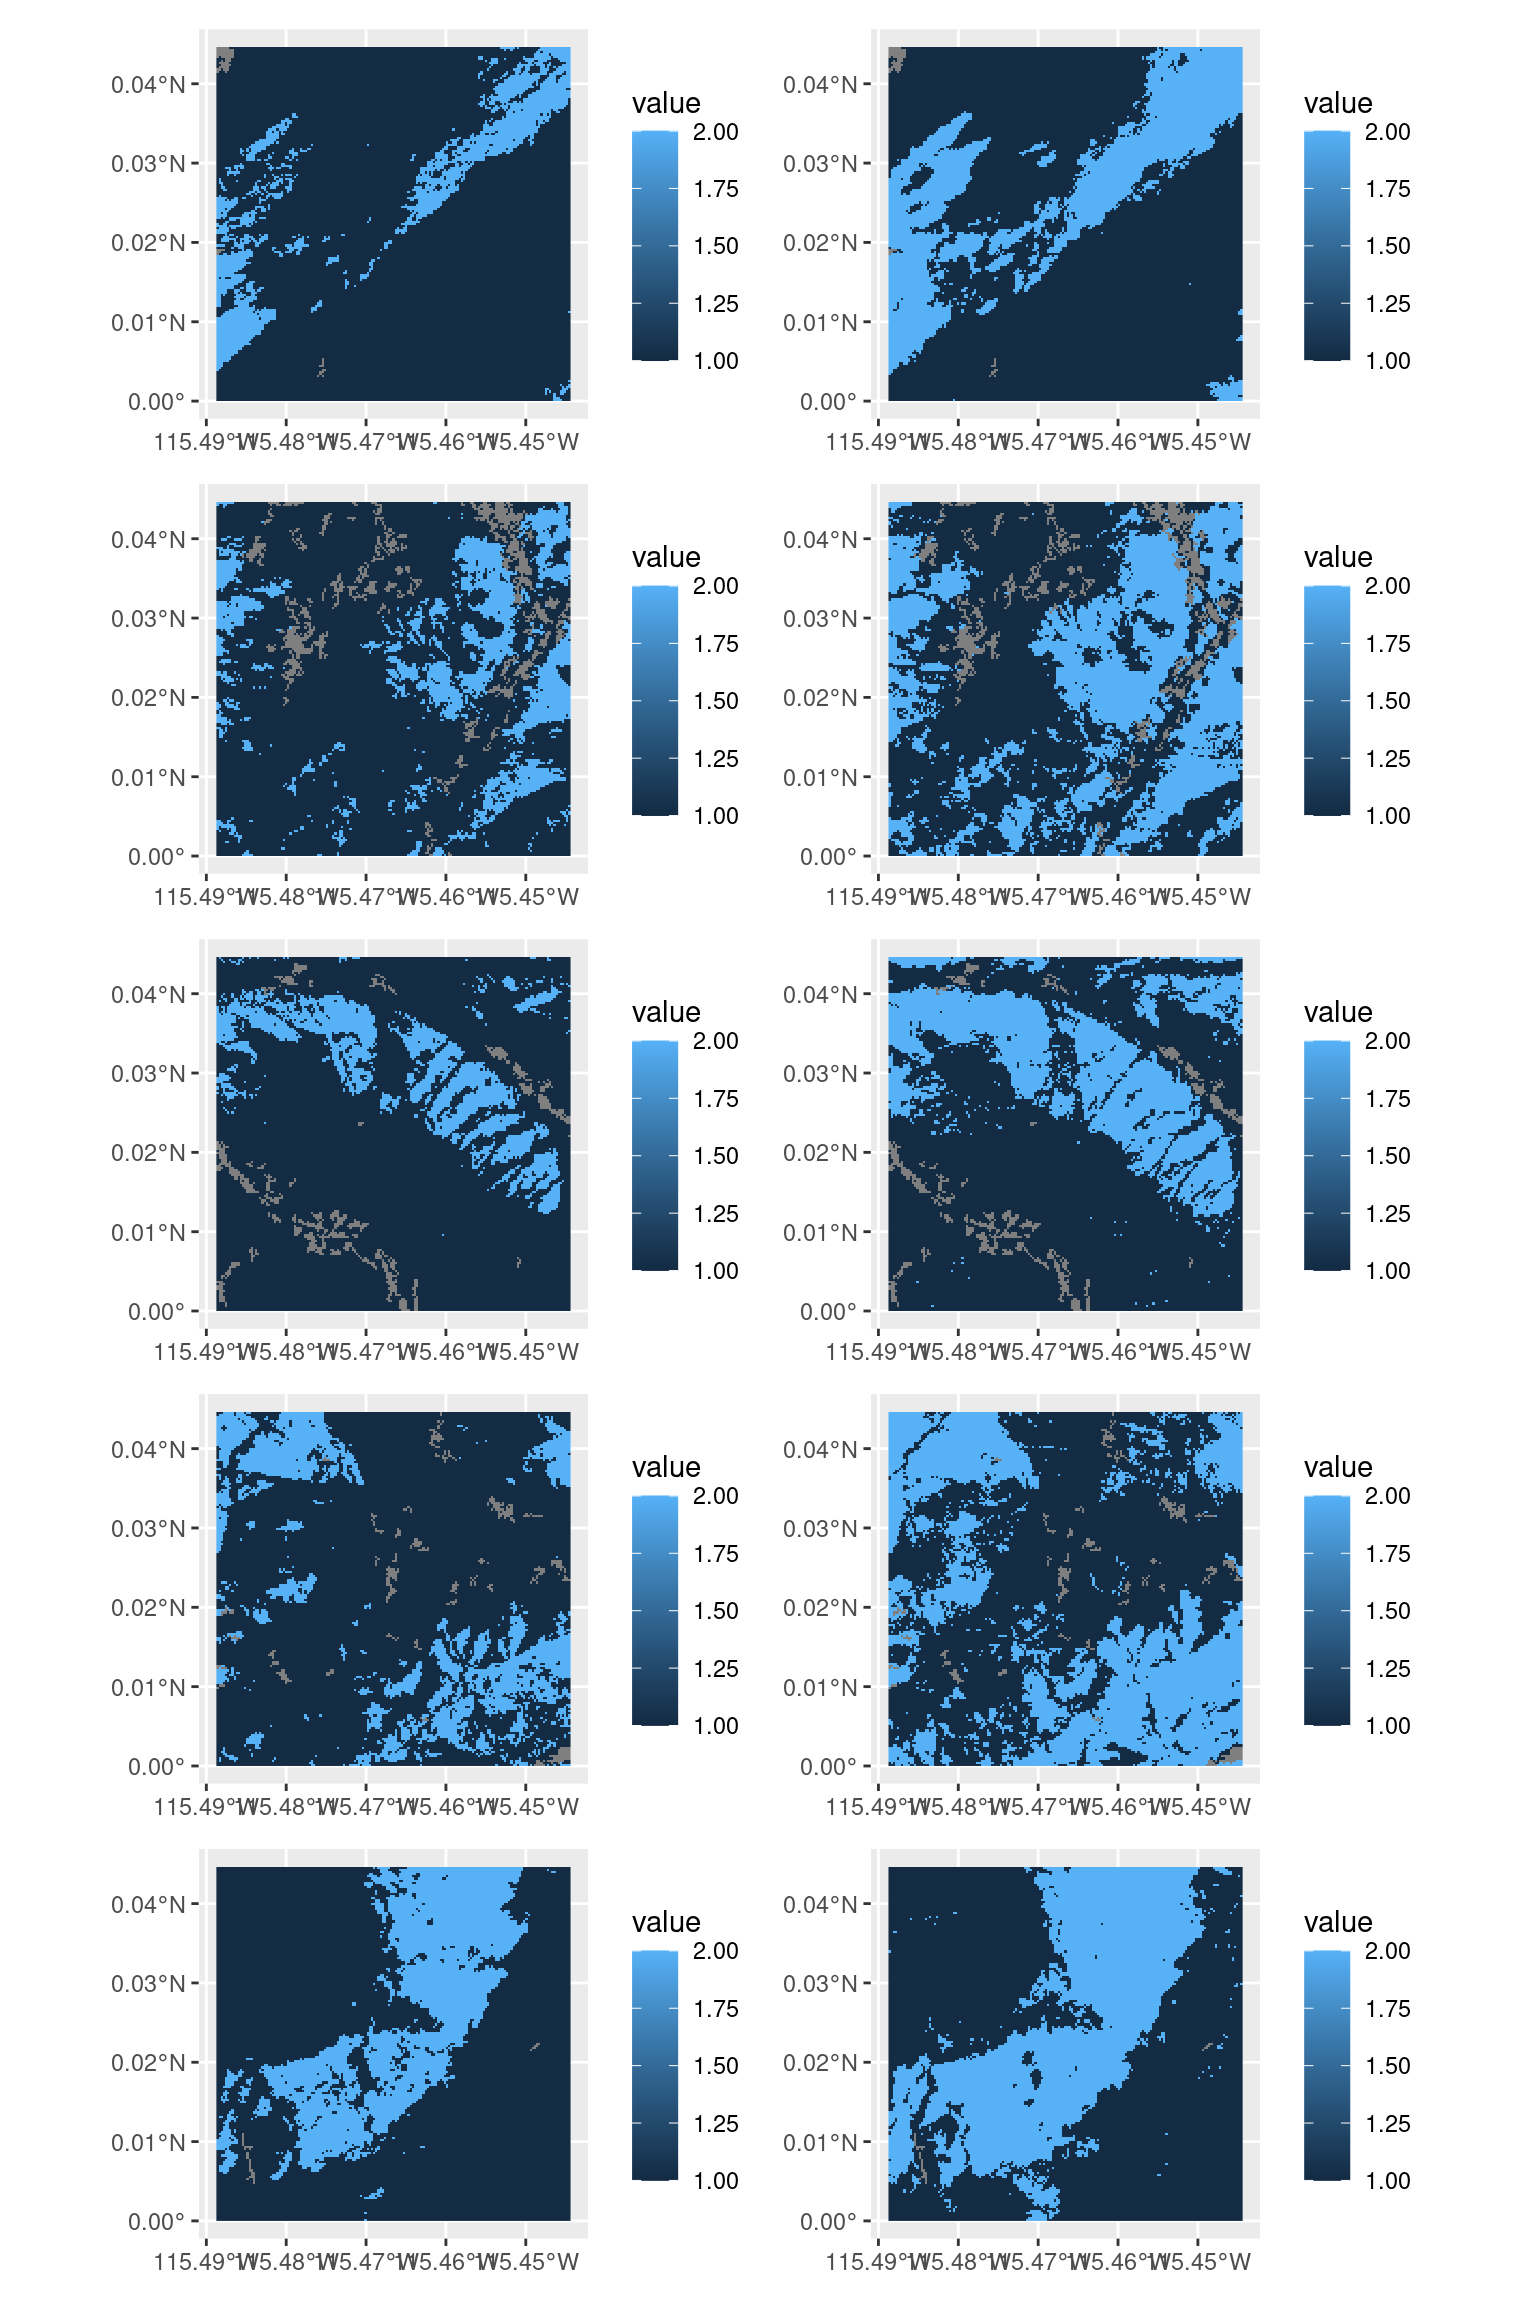
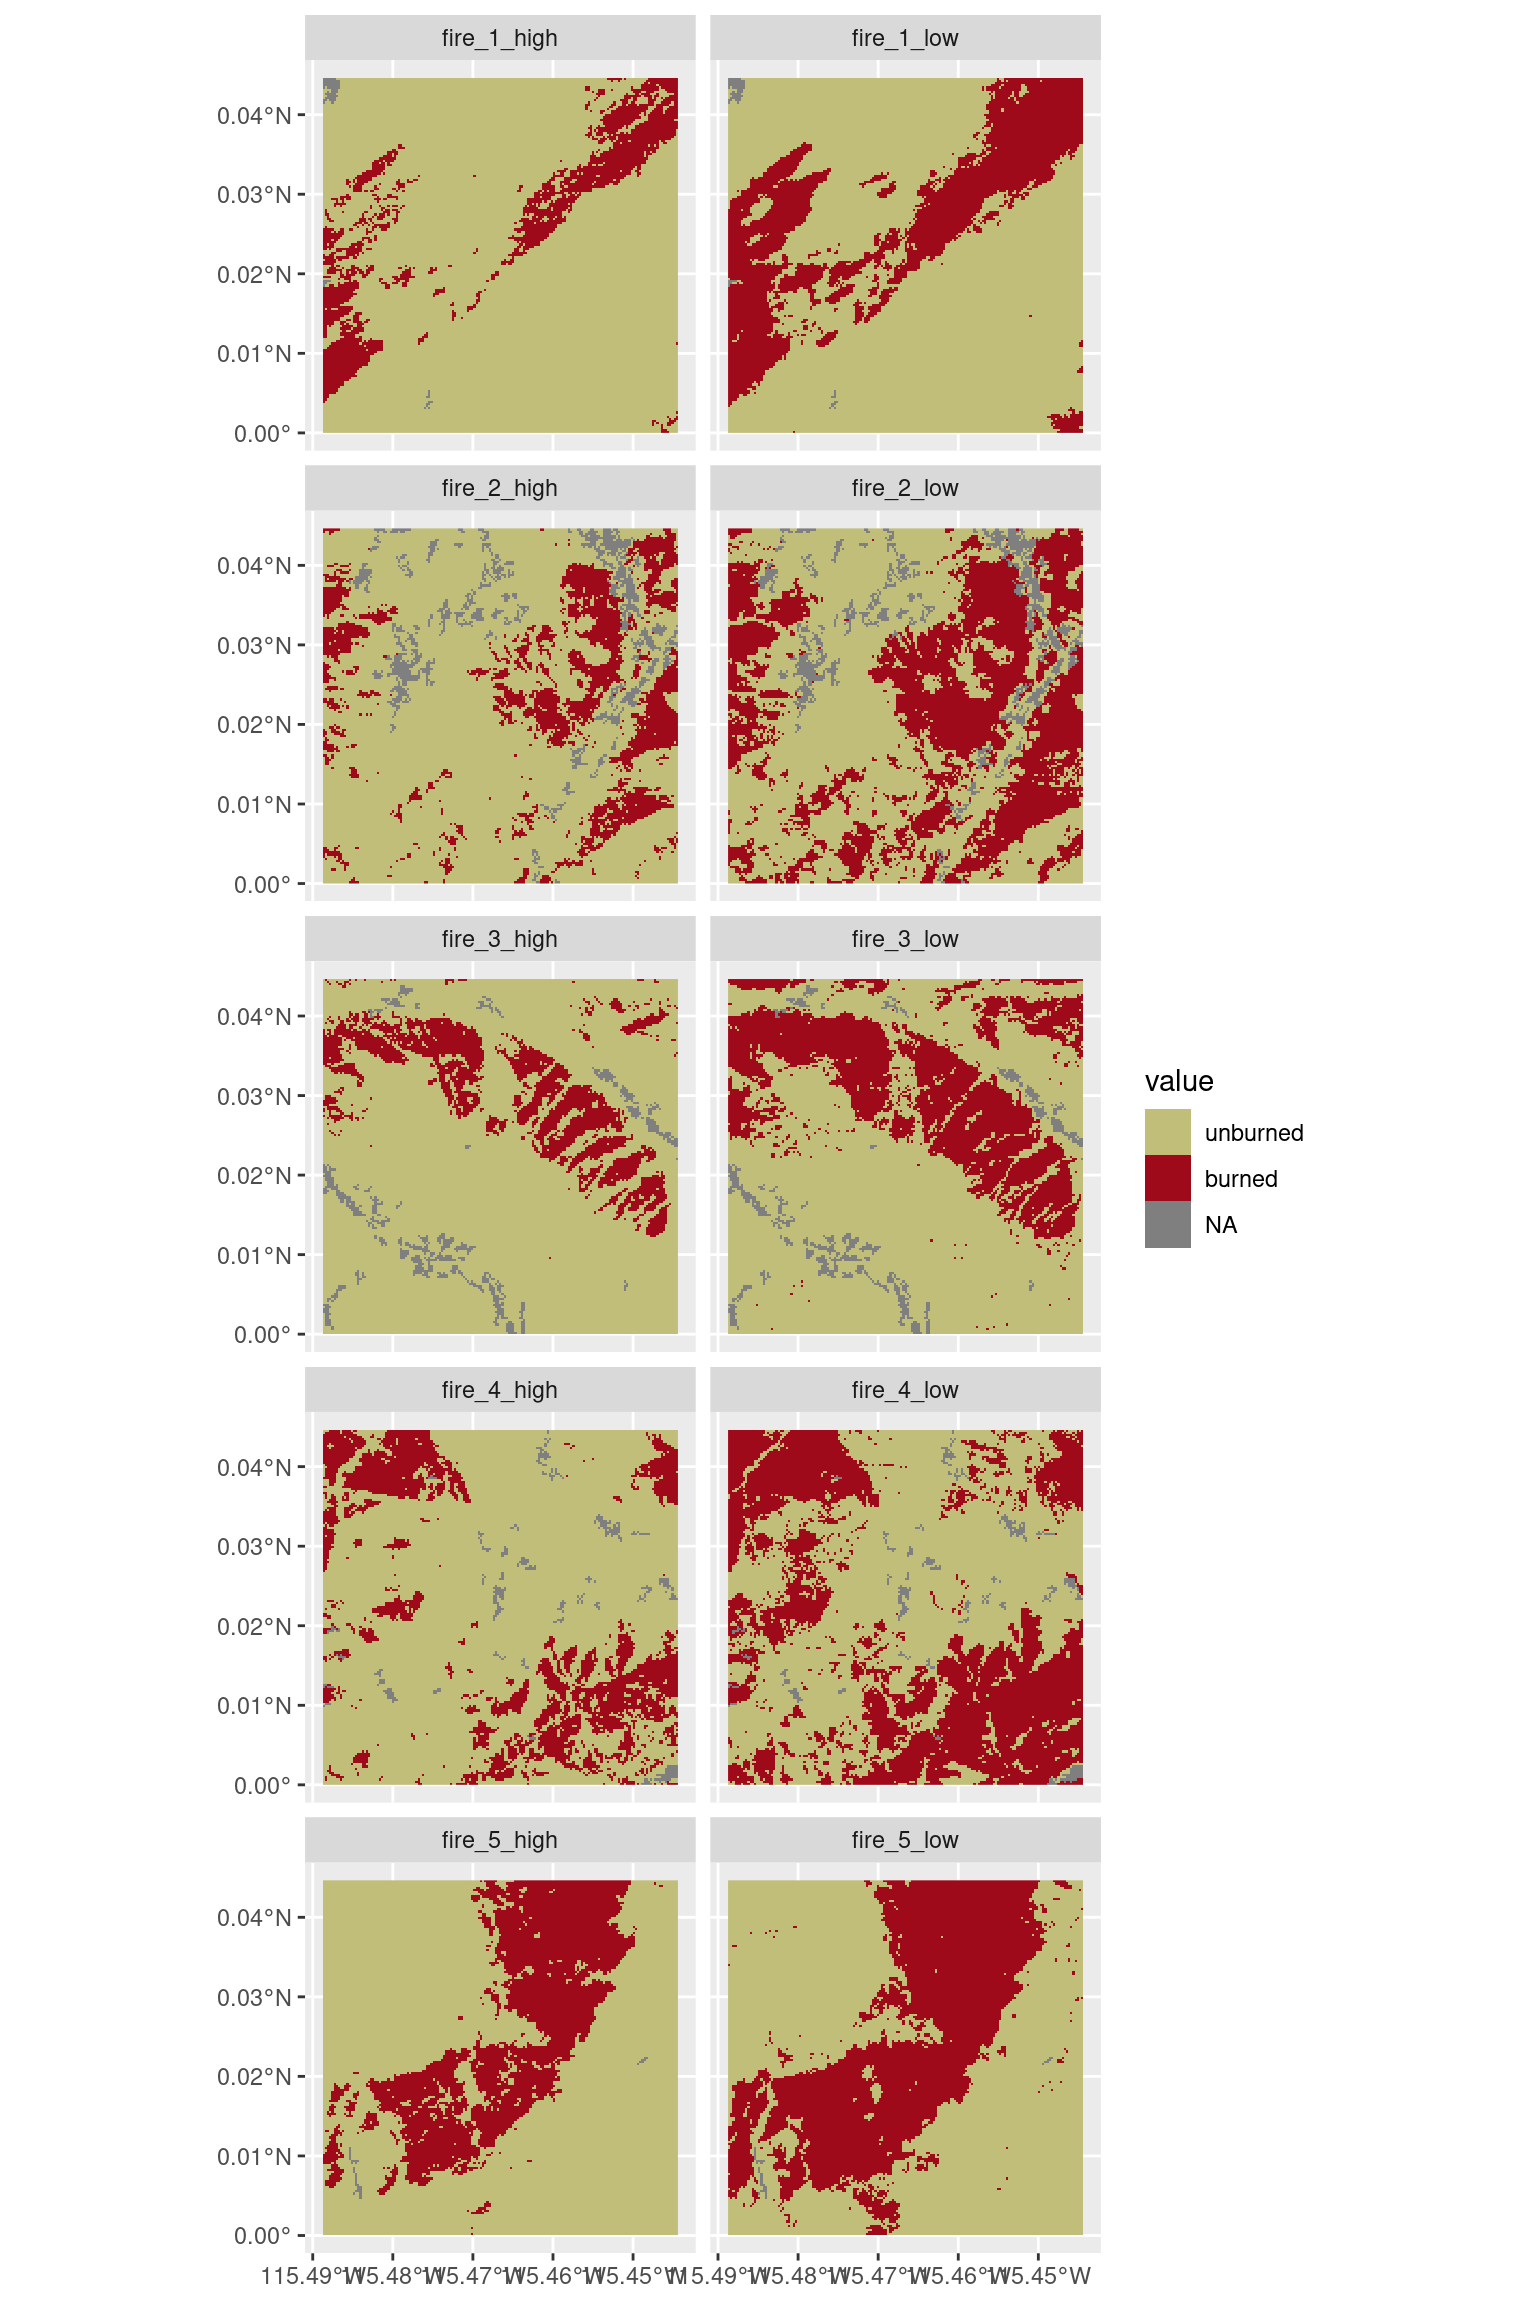
lab 4 completed

diff --git a/index.html b/index.html
@@ -7,9 +7,9 @@
 <meta name="viewport" content="width=device-width, initial-scale=1.0, user-scalable=yes">
 
 <meta name="author" content="Tommaso Trotto &amp; Jen Baron (tommaso.trotto@ubc.ca)">
-<meta name="dcterms.date" content="2024-06-24">
+<meta name="dcterms.date" content="2024-10-19">
 
-<title>GEM500: Carbon and Biomass estimation</title>
+<title>GEM500: Estimating Landscape Patterns</title>
 <style>
 code{white-space: pre-wrap;}
 span.smallcaps{font-variant: small-caps;}
@@ -151,7 +151,7 @@ window.Quarto = {
 
 <header id="title-block-header" class="quarto-title-block default">
 <div class="quarto-title">
-<h1 class="title">GEM500: Carbon and Biomass estimation</h1>
+<h1 class="title">GEM500: Estimating Landscape Patterns</h1>
 </div>
 
 
@@ -168,7 +168,7 @@ window.Quarto = {
     <div>
     <div class="quarto-title-meta-heading">Published</div>
     <div class="quarto-title-meta-contents">
-      <p class="date">June 24, 2024</p>
+      <p class="date">October 19, 2024</p>
     </div>
   </div>
   
@@ -264,19 +264,15 @@ Figure&nbsp;2: Illustration of 2 neighboring rules: (left) 4-neighbors, (right) 
 <span id="cb2-13"><a href="#cb2-13" aria-hidden="true" tabindex="-1"></a>  r <span class="ot">&lt;-</span> <span class="fu">rast</span>(f)</span>
 <span id="cb2-14"><a href="#cb2-14" aria-hidden="true" tabindex="-1"></a>  <span class="fu">NAflag</span>(r) <span class="ot">&lt;-</span> <span class="dv">99</span></span>
 <span id="cb2-15"><a href="#cb2-15" aria-hidden="true" tabindex="-1"></a>  <span class="fu">crs</span>(r) <span class="ot">&lt;-</span> <span class="st">'epsg:32612'</span>  <span class="co"># manually assing CRS because originally missing</span></span>
-<span id="cb2-16"><a href="#cb2-16" aria-hidden="true" tabindex="-1"></a>  <span class="fu">return</span>(r)</span>
-<span id="cb2-17"><a href="#cb2-17" aria-hidden="true" tabindex="-1"></a>})</span>
-<span id="cb2-18"><a href="#cb2-18" aria-hidden="true" tabindex="-1"></a></span>
-<span id="cb2-19"><a href="#cb2-19" aria-hidden="true" tabindex="-1"></a><span class="co"># plot</span></span>
-<span id="cb2-20"><a href="#cb2-20" aria-hidden="true" tabindex="-1"></a>plots <span class="ot">&lt;-</span> <span class="fu">lapply</span>(flagged, <span class="cf">function</span>(f) {</span>
-<span id="cb2-21"><a href="#cb2-21" aria-hidden="true" tabindex="-1"></a>  <span class="fu">ggplot</span>() <span class="sc">+</span></span>
-<span id="cb2-22"><a href="#cb2-22" aria-hidden="true" tabindex="-1"></a>  <span class="fu">geom_spatraster</span>(<span class="at">data =</span> f)</span>
-<span id="cb2-23"><a href="#cb2-23" aria-hidden="true" tabindex="-1"></a>})</span>
-<span id="cb2-24"><a href="#cb2-24" aria-hidden="true" tabindex="-1"></a>(plots[[<span class="dv">1</span>]] <span class="sc">+</span> plots[[<span class="dv">2</span>]]) <span class="sc">/</span> </span>
-<span id="cb2-25"><a href="#cb2-25" aria-hidden="true" tabindex="-1"></a>(plots[[<span class="dv">3</span>]] <span class="sc">+</span> plots[[<span class="dv">4</span>]]) <span class="sc">/</span> </span>
-<span id="cb2-26"><a href="#cb2-26" aria-hidden="true" tabindex="-1"></a>(plots[[<span class="dv">5</span>]] <span class="sc">+</span> plots[[<span class="dv">6</span>]]) <span class="sc">/</span> </span>
-<span id="cb2-27"><a href="#cb2-27" aria-hidden="true" tabindex="-1"></a>(plots[[<span class="dv">7</span>]] <span class="sc">+</span> plots[[<span class="dv">8</span>]]) <span class="sc">/</span> </span>
-<span id="cb2-28"><a href="#cb2-28" aria-hidden="true" tabindex="-1"></a>(plots[[<span class="dv">9</span>]] <span class="sc">+</span> plots[[<span class="dv">10</span>]])</span></code><button title="Copy to Clipboard" class="code-copy-button"><i class="bi"></i></button></pre></div>
+<span id="cb2-16"><a href="#cb2-16" aria-hidden="true" tabindex="-1"></a>  <span class="fu">levels</span>(r) <span class="ot">&lt;-</span> <span class="fu">c</span>(<span class="st">"nodata"</span>, <span class="st">"unburned"</span>, <span class="st">"burned"</span>)</span>
+<span id="cb2-17"><a href="#cb2-17" aria-hidden="true" tabindex="-1"></a>  <span class="fu">return</span>(r)</span>
+<span id="cb2-18"><a href="#cb2-18" aria-hidden="true" tabindex="-1"></a>})</span>
+<span id="cb2-19"><a href="#cb2-19" aria-hidden="true" tabindex="-1"></a></span>
+<span id="cb2-20"><a href="#cb2-20" aria-hidden="true" tabindex="-1"></a><span class="co"># plot</span></span>
+<span id="cb2-21"><a href="#cb2-21" aria-hidden="true" tabindex="-1"></a><span class="fu">ggplot</span>() <span class="sc">+</span></span>
+<span id="cb2-22"><a href="#cb2-22" aria-hidden="true" tabindex="-1"></a>  <span class="fu">geom_spatraster</span>(<span class="at">data =</span> <span class="fu">rast</span>(flagged)) <span class="sc">+</span></span>
+<span id="cb2-23"><a href="#cb2-23" aria-hidden="true" tabindex="-1"></a>  <span class="fu">facet_wrap</span>(<span class="sc">~</span>lyr, <span class="at">ncol =</span> <span class="dv">2</span>) <span class="sc">+</span></span>
+<span id="cb2-24"><a href="#cb2-24" aria-hidden="true" tabindex="-1"></a>  <span class="fu">scale_fill_manual</span>(<span class="at">values =</span> <span class="fu">c</span>(<span class="st">'unburned'</span> <span class="ot">=</span> <span class="st">'#c1be7a'</span>, <span class="st">'burned'</span> <span class="ot">=</span> <span class="st">'#9f0a1a'</span>, <span class="st">'modata'</span> <span class="ot">=</span> <span class="st">'#ababab'</span>))</span></code><button title="Copy to Clipboard" class="code-copy-button"><i class="bi"></i></button></pre></div>
 </details>
 <div class="cell-output-display">
 <div id="fig-fires" class="quarto-float quarto-figure quarto-figure-center anchored">
@@ -304,7 +300,10 @@ resolution  : 30, 30  (x, y)
 extent      : 0, 4950, 0, 4950  (xmin, xmax, ymin, ymax)
 coord. ref. : WGS 84 / UTM zone 12N (EPSG:32612) 
 source      : fire_1_high.tif 
-name        : fire_1_high </code></pre>
+categories  : category 
+name        : fire_1_high 
+min value   :          NA 
+max value   :          NA </code></pre>
 </div>
 </div>
 <p>Note how we have 2 classes and a “nodata” class. Class 1 represents unburned areas and class 2 represents burned areas. Class 99 is our nodata class. Now that we have some basic information on the landscape, we should check that everything is right. That is, check that the coordinate reference system (CRS) is right, and that we have the right number of classes. This is pretty straighforward. You would notice that the rasters have a CRS = EPSG:4326. In python you can check the CRS using <code>src.spatial_ref</code>. If the field is populated, explore it. In R, the <code>landscapemetrics</code> package offers the <code>check_landscape</code> function. So just type <code>check_landscape(flagged[[1]])</code> to see if the first raster is ready to go.</p>
@@ -318,7 +317,7 @@ name        : fire_1_high </code></pre>
 1     1 projected     m integer         2  ✔</code></pre>
 </div>
 </div>
-<p>We see that the rasters are ready to go!</p>
+<p>We see that the raster is ready to go!</p>
 <section id="list-available-metrics" class="level2">
 <h2 class="anchored" data-anchor-id="list-available-metrics">List available metrics</h2>
 <p>The <code>landscapemetrics</code> package includes a function to show you all available metrics and filter them according to the characteristics of the landscape they conceptually describe. For help, have a look at the help page of the <code>list_lsm()</code> function. You would see the acronym and full name of all the available metrics, the type, and the level they are applied to. For example. we can calculate metrics at the <code>patch</code>-, <code>class</code>-, or <code>landscape</code>-level. The syntax is pretty simple. All metrics start with <code>lsm_</code>, followed by the level (<code>p/c/l</code>), and the function name. Some of these metrics have other parameters that can be passed (e.g.&nbsp;neighboring rule). In some cases, legacy parameters are carried forward, so you will end up with metrics that have both a <code>neighbors</code> and <code>direction</code> parameters. They mean the same thing, but for legacy purposes they are retained to this point. In case, give the same value to both to be sure they are interpreted as you would expect.</p>
